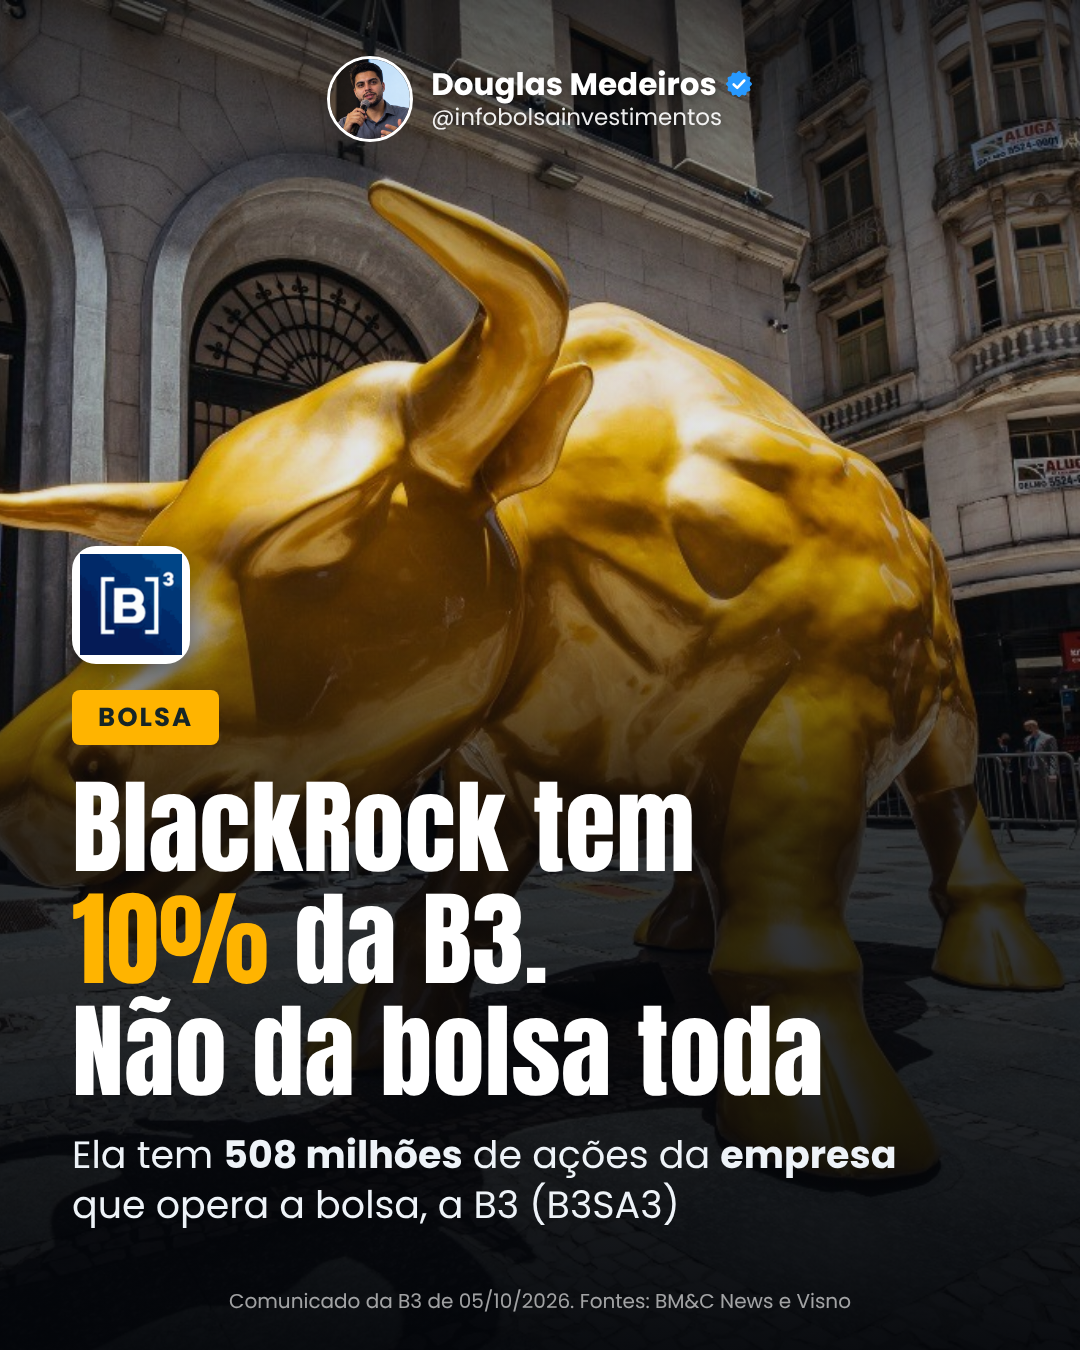
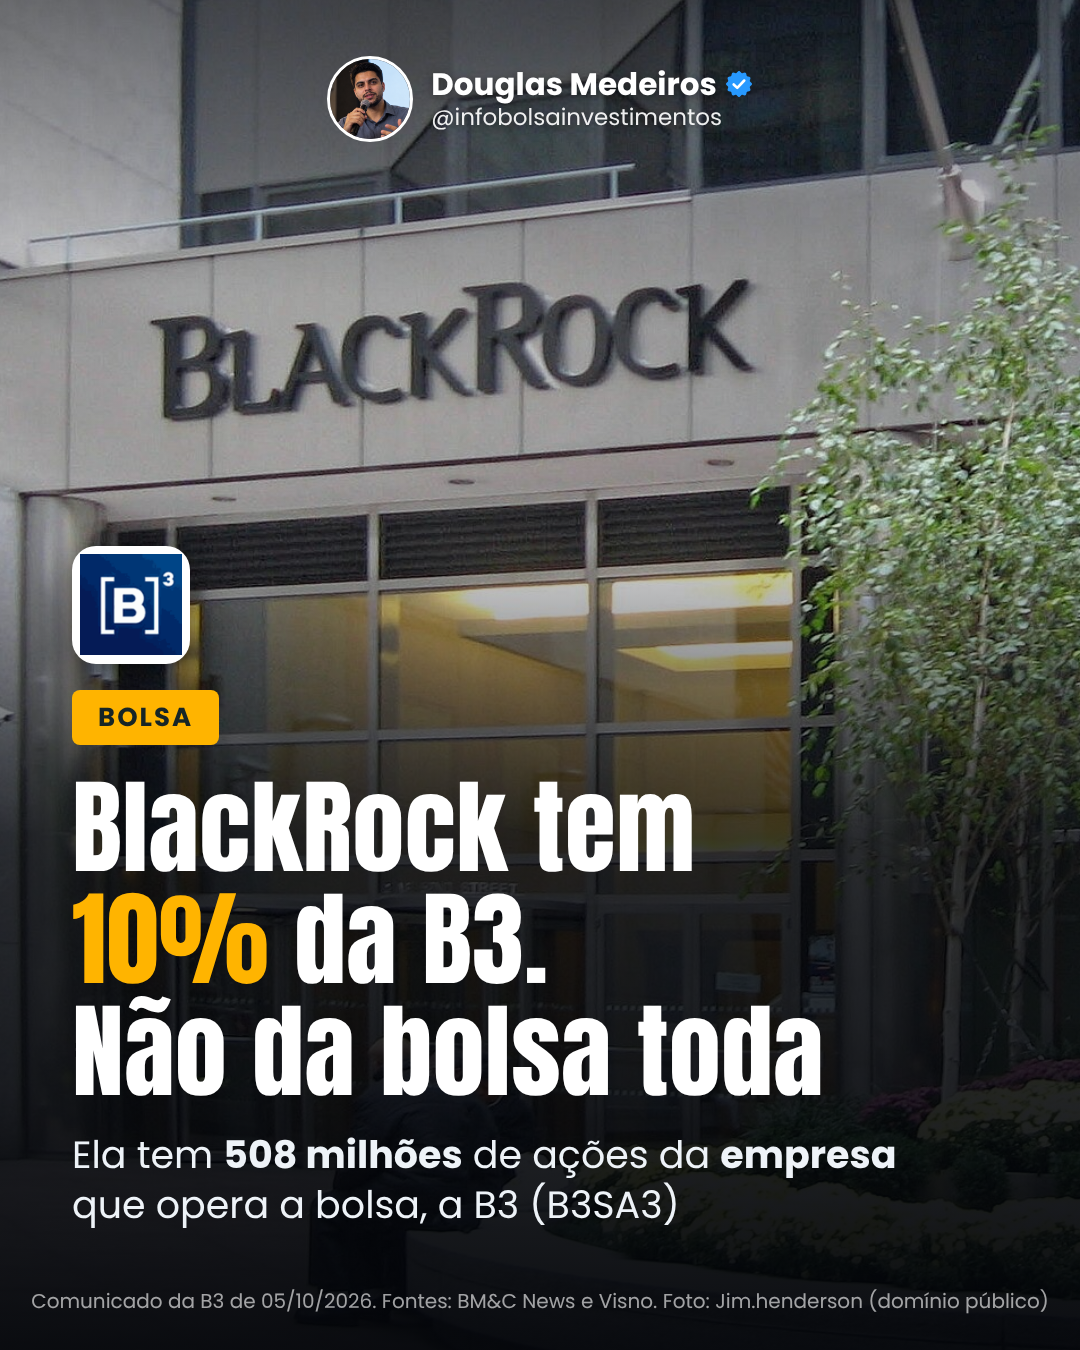
Fundo da BlackRock no post de 09/10 e regra para variar fotos
Claude-Session: https://claude.ai/code/session_01V4Ut9U2W4uPbxLAyJQKmJH

diff --git a/ROTINA-noticia.md b/ROTINA-noticia.md
@@ -56,7 +56,10 @@ Crie `kit/configs/noticia/AAAA-MM-DD.json` (veja `exemplo-manchete.json` e `exem
 | FIIs de lajes, escritórios, mercado imobiliário | `foto-faria-lima-*.jpg`, `foto-avenida-paulista-*.jpg` |
 | FIIs de shopping, varejo | `foto-shopping-*.jpg`, `foto-varejo-loja-*.jpg` |
 | Agro, Fiagros, safra | `foto-agro-*.jpg`, `foto-gado-*.jpg` |
+| BlackRock, gestoras estrangeiras | `foto-blackrock-sede-1.jpg` (foco `12% 100%`, `"zoom": "auto 125%"`), `foto-blackrock-sede-2.jpg` |
 | Energia, elétricas | `foto-itaipu-energia-*.jpg`, `foto-angra-energia-nuclear-1.jpg` |
+
+VARIE AS FOTOS: o Douglas não quer o mesmo fundo repetido. Veja o `fundo` dos configs dos últimos 7 dias em `kit/configs/noticia/` (e de `pronto/`) e NÃO repita uma foto usada nesse período; se o tema tiver várias fotos, use outra do mesmo tema. O touro (`fundo-touro-b3.jpg`) só quando não houver outra opção ligada ao assunto.
 
 Se nenhuma foto combinar com o assunto, use a mais próxima da lista (ex.: notícia de empresa sem foto própria: `fundo-touro-b3.jpg` ou Faria Lima). O crédito da foto entra sozinho no rodapé (vem de `kit/assets/fundos/creditos.json`), não apague.
 
